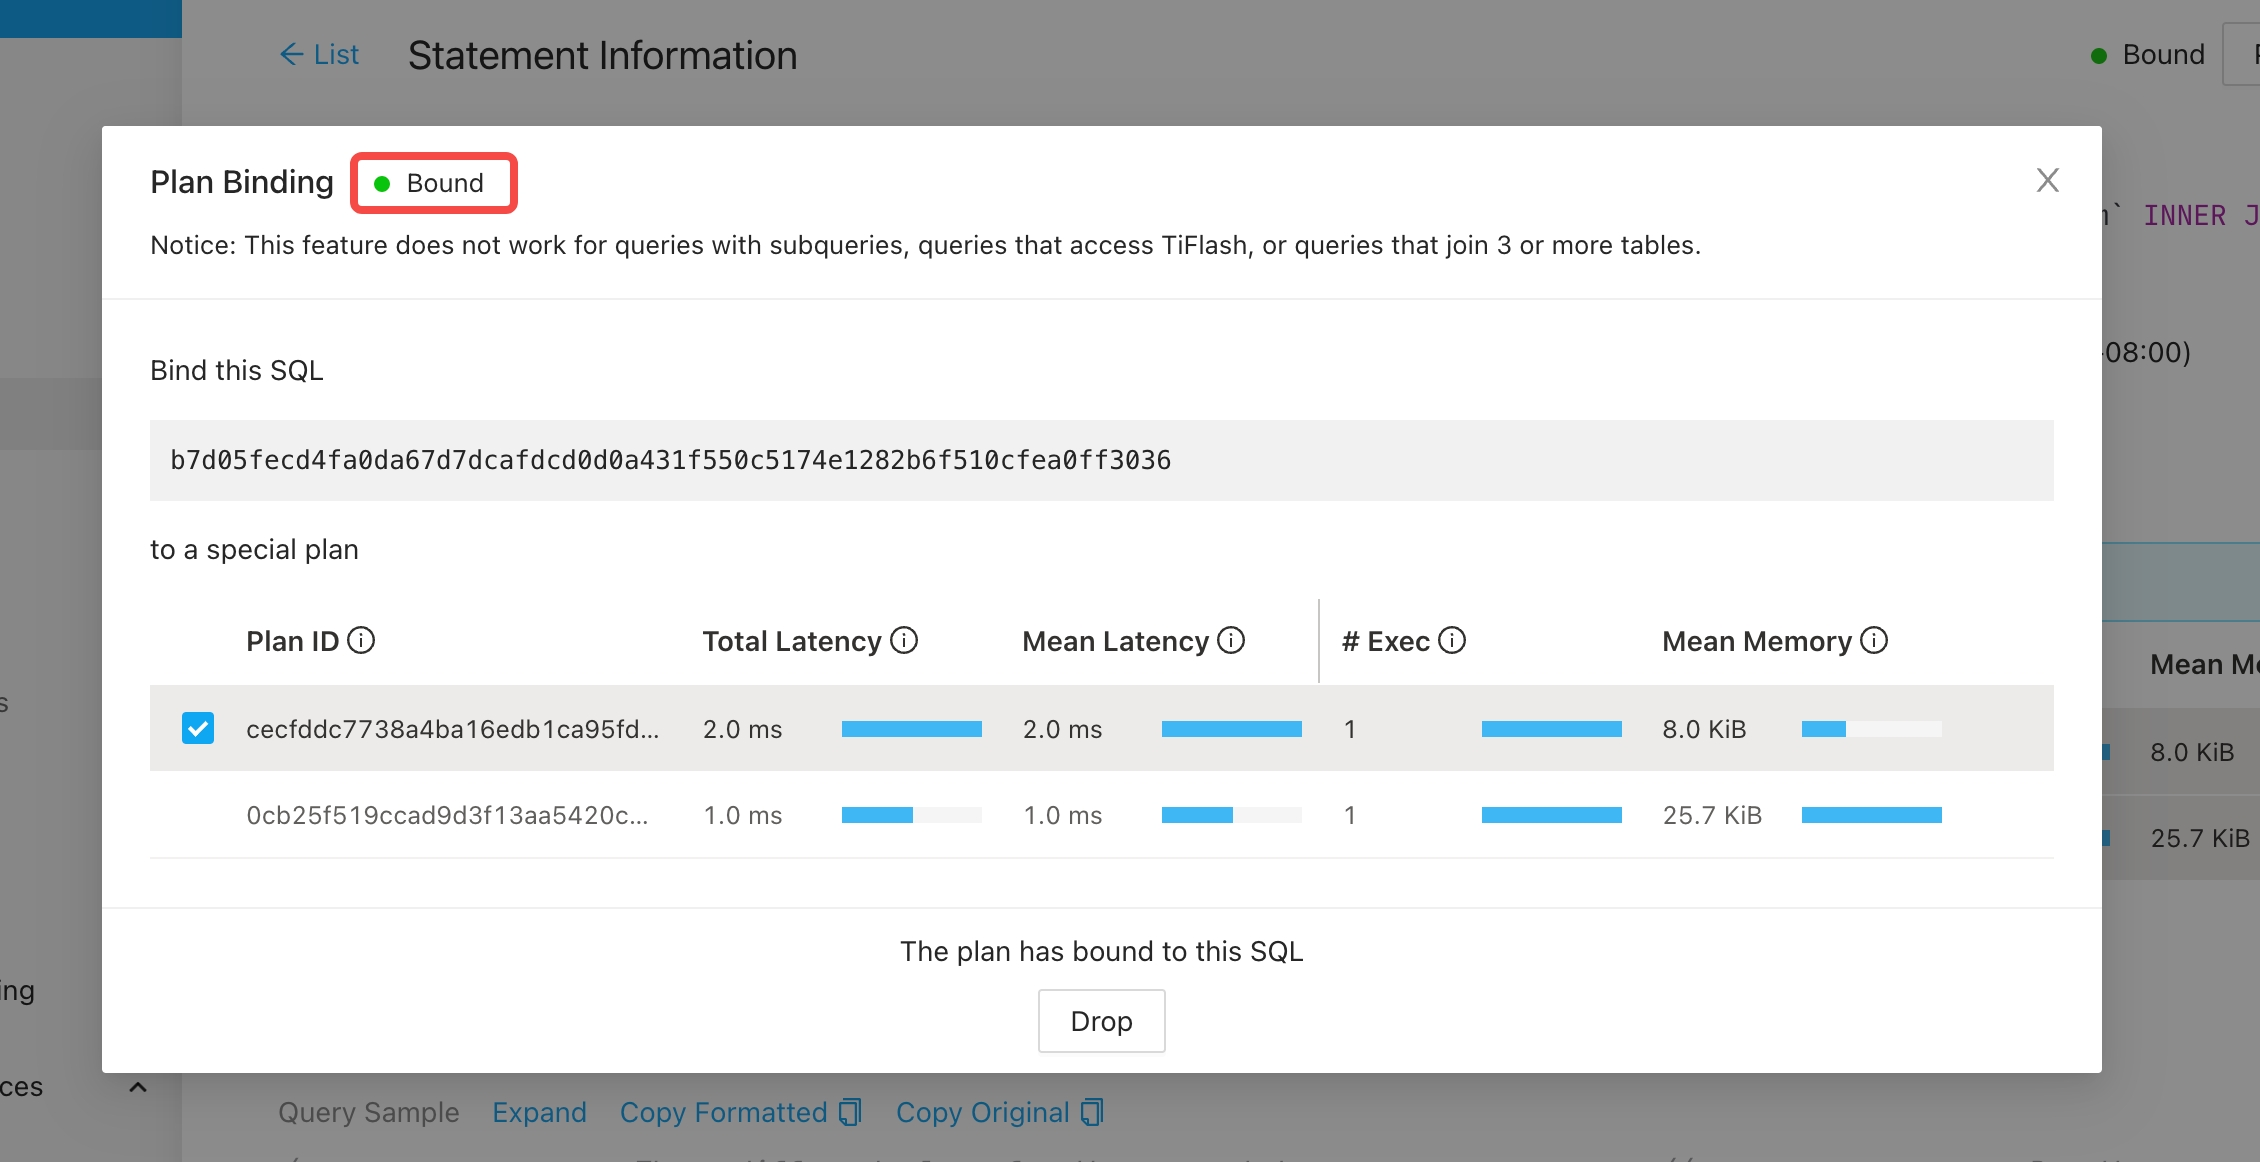
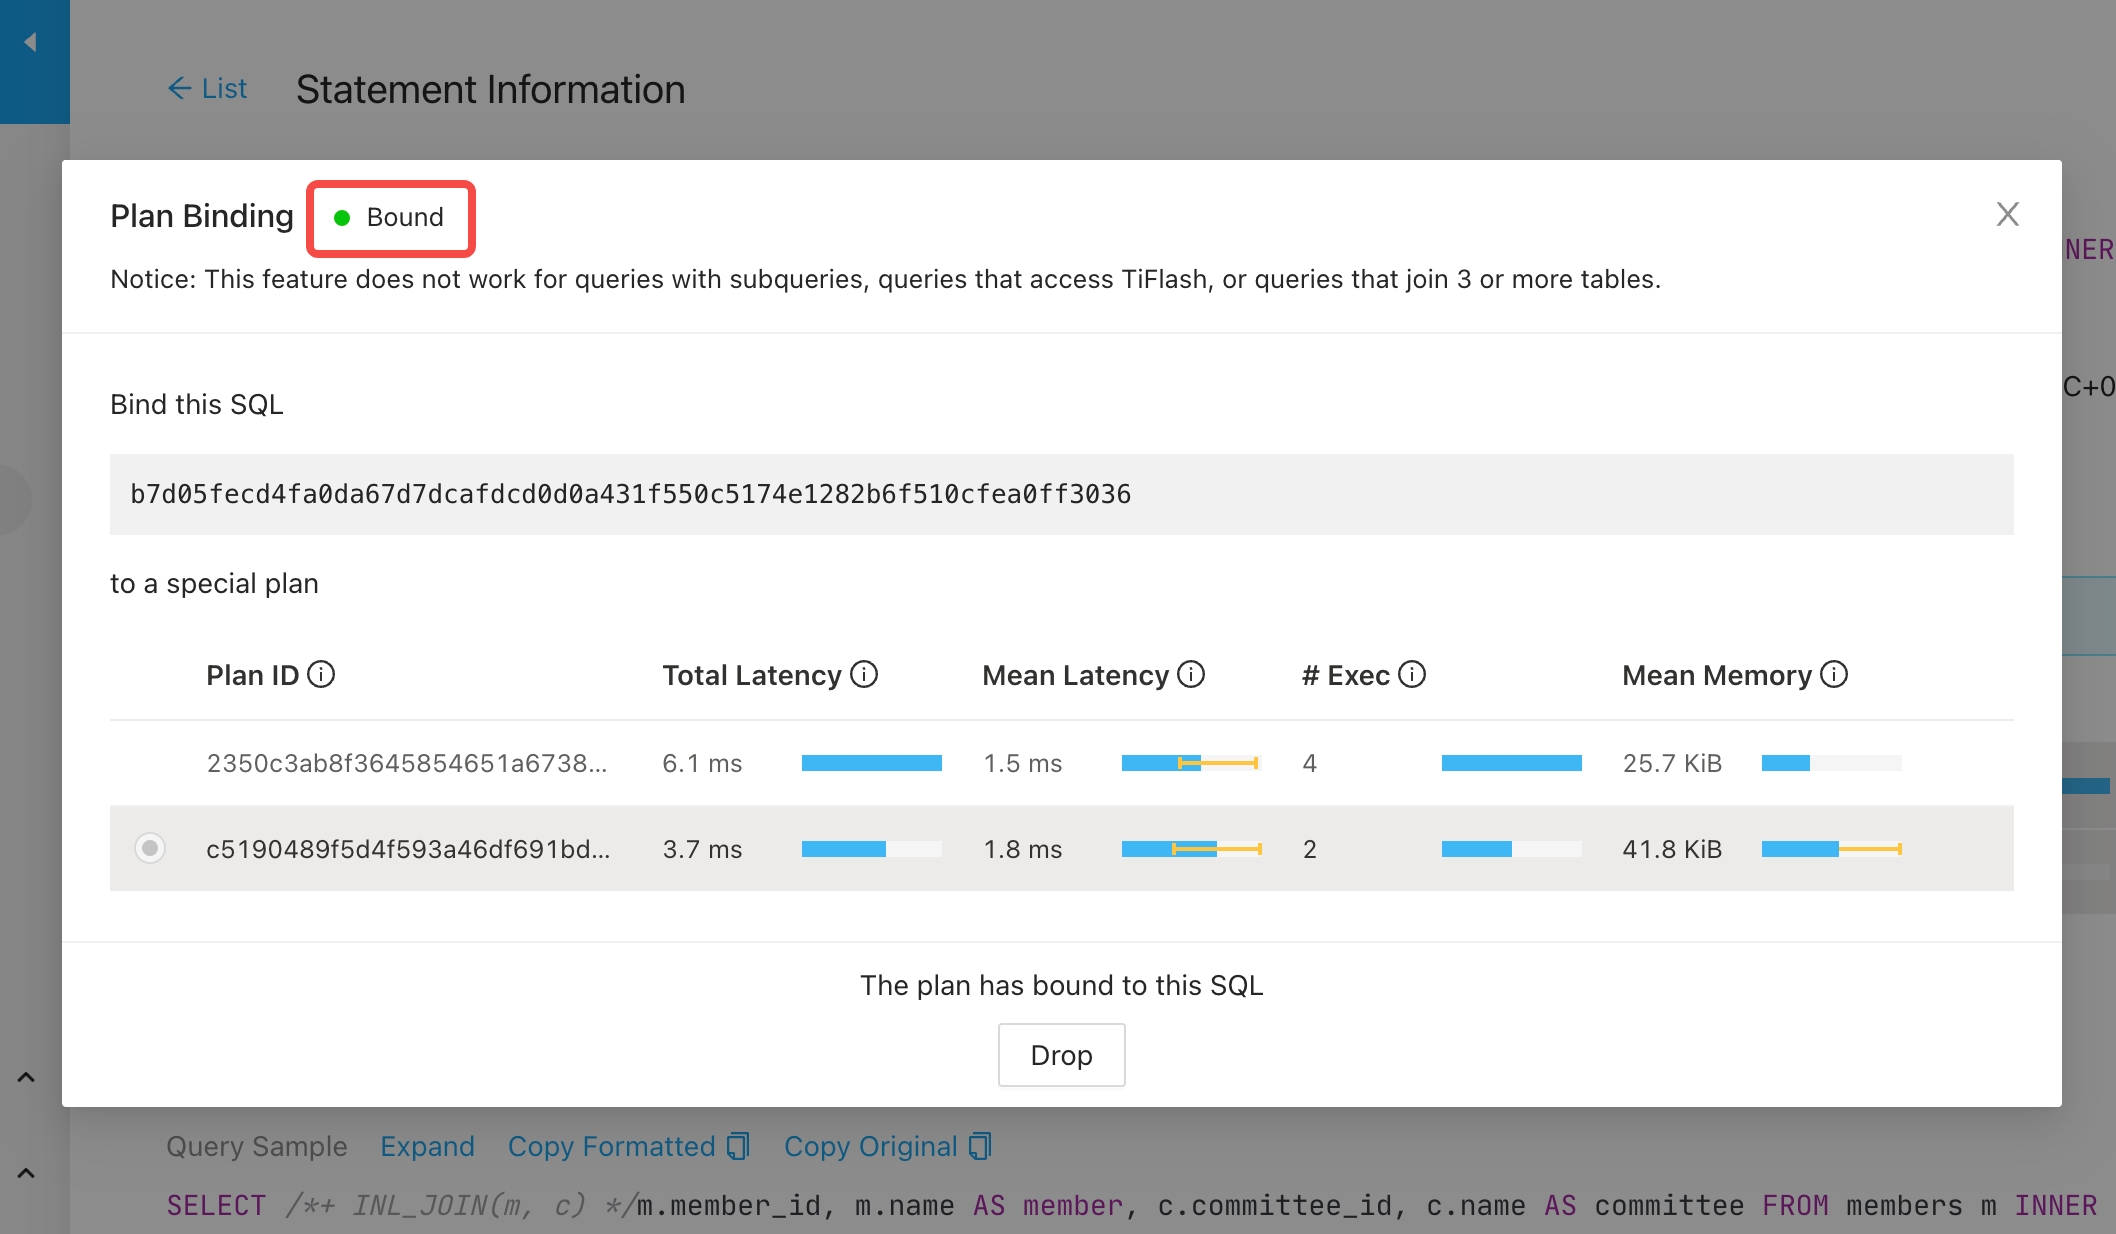
update screenshots

diff --git a/dashboard/dashboard-statement-details.md b/dashboard/dashboard-statement-details.md
@@ -12,7 +12,7 @@ Click any item in the list to enter the detail page of the SQL statement to view
 - The execution plan list: If a SQL statement has multiple execution plans, this list is displayed. Besides text information of execution plans, TiDB v6.2.0 introduces visual execution plans, through which you can learn each operator of a statement and detailed information more intuitively. You can select different execution plans, and the details of the selected plans are displayed below the list (area 2 in the following figure).
 - Execution detail of plans, which displays the detailed information of the selected execution plans. See [Execution plan in details](#execution-details-of-plans) (area 3 in the following figure).
 
-![Details](/media/dashboard/dashboard-statement-detail-v620.png)
+![Details](/media/dashboard/dashboard-statement-detail-v660.png)
 
 ## Fast plan binding
 
